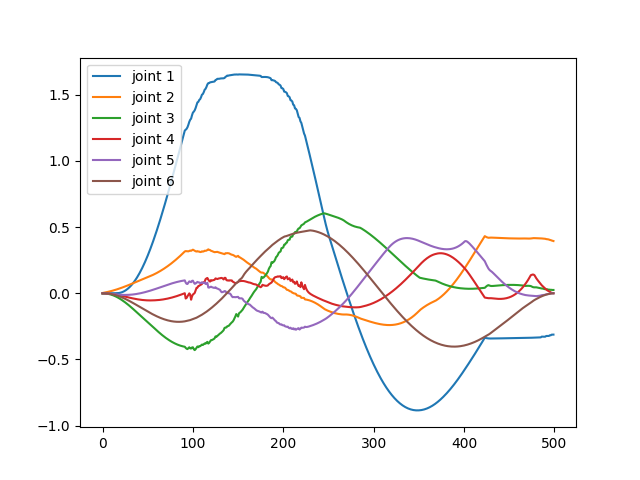
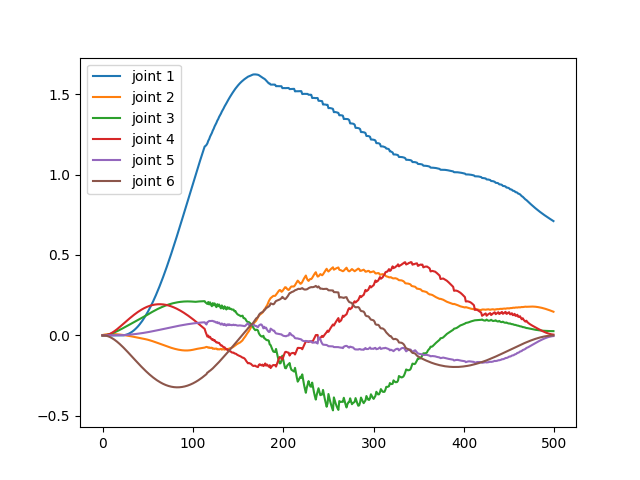
testing

diff --git a/mjx_planner_v2/mjx_planner.py b/mjx_planner_v2/mjx_planner.py
@@ -70,7 +70,7 @@ class cem_planner():
 
 		self.key = key
 		self.maxiter_projection = 1
-		self.maxiter_cem = 20
+		self.maxiter_cem = 10
   
 		self.l_1 = 1.0
 		self.l_2 = 1.0
@@ -176,12 +176,12 @@ class cem_planner():
 	
 	@partial(jit, static_argnums=(0,))
 	def compute_cost_single(self, eef_pos, thetadot):
-		w1 = 0.99
+		w1 = 0.999
 		w2 = 1-w1
-		cost_g = np.min(jnp.linalg.norm(eef_pos - self.target_pos, axis=1))
-		# cost_s = np.sum(jnp.linalg.norm(thetadot.reshape(self.num_dof, self.num).T, axis=1))
-		# cost = w1*cost_g + w2*cost_s
-		return cost_g
+		cost_g = jnp.linalg.norm(eef_pos - self.target_pos)
+		cost_s = np.sum(jnp.linalg.norm(thetadot.reshape(self.num_dof, self.num).T, axis=1))
+		cost = w1*cost_g + w2*cost_s
+		return cost
 	
 	@partial(jit, static_argnums=(0, ))
 	def compute_ellite_samples(self, cost_batch, xi_filtered):
@@ -261,7 +261,7 @@ class cem_planner():
 	
 def main():
 	num_dof = 6
-	num_batch = 500
+	num_batch = 100
 	opt_class =  cem_planner(num_dof, num_batch)
 	theta_init = np.zeros((num_batch, num_dof))
 	thetadot_init = np.zeros((num_batch, num_dof  ))
